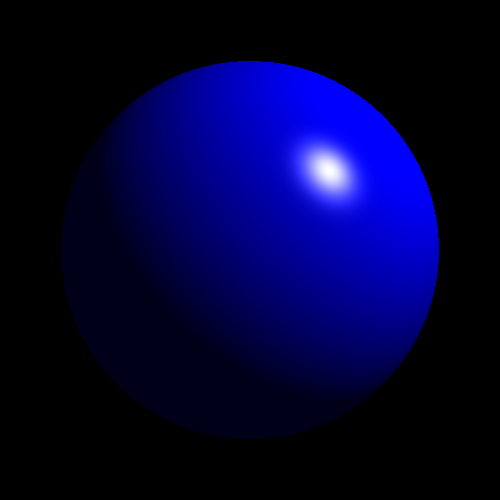
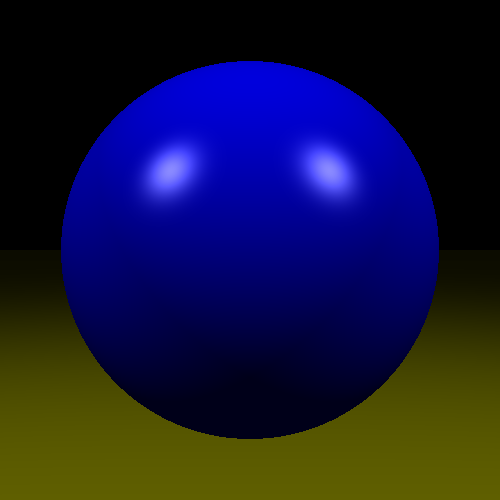
add comments to clarify position and color parameters in Sphere and InfinitePlane initialization

diff --git a/src/main.rs b/src/main.rs
@@ -54,23 +54,23 @@ impl ApplicationHandler for App {
             Object::Sphere(
                 Sphere::new(
                     2.0,
-                    Vec3::new(0.0, 0.0, 5.0),
+                    Vec3::new(0.0, 0.0, 5.0), // position
                     Material::new(
-                        Color::new(0.0, 0.0, 1.0, 1.0),
-                        Color::new(0.0, 0.0, 1.0, 1.0),
-                        Color::new(1.0, 1.0, 1.0, 1.0),
+                        Color::new(0.0, 0.0, 1.0, 1.0), // ambient
+                        Color::new(0.0, 0.0, 1.0, 1.0), // diffuse
+                        Color::new(1.0, 1.0, 1.0, 1.0), // specular
                 32.0
                     )
                 )
             ),
             Object::InfinitePlane(
                 InfinitePlane::new(
-                    Vec3::new(0.0, -2.0, 0.0),
-                    Vec3::new(0.0, 1.0, 0.0),
+                    Vec3::new(0.0, -2.0, 0.0), // position
+                    Vec3::new(0.0, 1.0, 0.0), // normal
                     Material::new(
-                        Color::new(0.0, 0.0, 1.0, 1.0),
-                        Color::new(0.0, 0.0, 1.0, 1.0),
-                        Color::new(1.0, 1.0, 1.0, 1.0),
+                        Color::new(0.5, 0.5, 0.0, 1.0), // ambient
+                        Color::new(0.5, 0.5, 0.0, 1.0), // diffuse
+                        Color::new(1.0, 1.0, 1.0, 1.0), // specular
                         32.0)
                 )
             )
@@ -78,15 +78,15 @@ impl ApplicationHandler for App {
         let lights = vec![
             LightSource::PointLight(
                 PointLight::new(
-                    Vec3::new(5.0, 5.0, 0.0),
-                    Color::new(1.0, 1.0, 1.0, 0.1),
+                    Vec3::new(5.0, 5.0, 0.0), // position
+                    Color::new(1.0, 1.0, 1.0, 0.1), // color
                     1.0
                 )
             ),
             LightSource::PointLight(
                 PointLight::new(
-                    Vec3::new(-5.0, 5.0, 0.0),
-                    Color::new(1.0, 1.0, 1.0, 0.1),
+                    Vec3::new(-5.0, 5.0, 0.0), // position
+                    Color::new(1.0, 1.0, 1.0, 0.1), // color
                     1.0
                 )
             )
